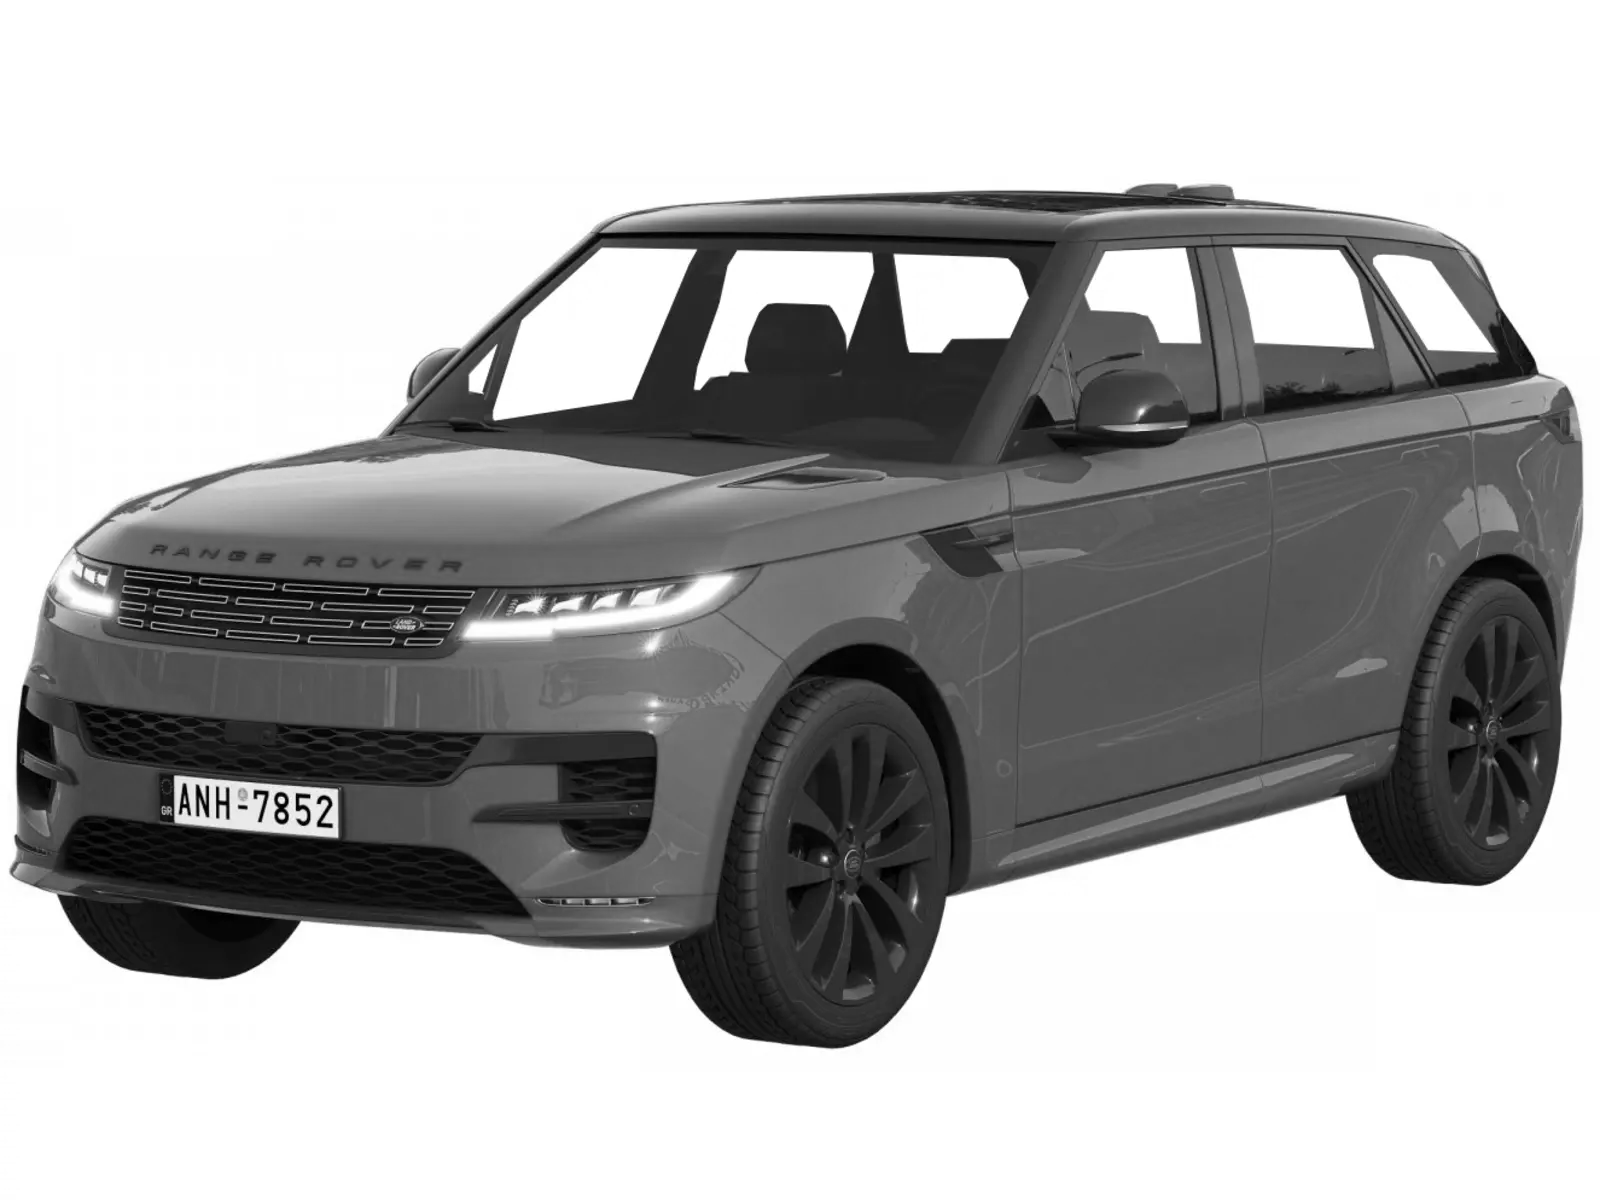
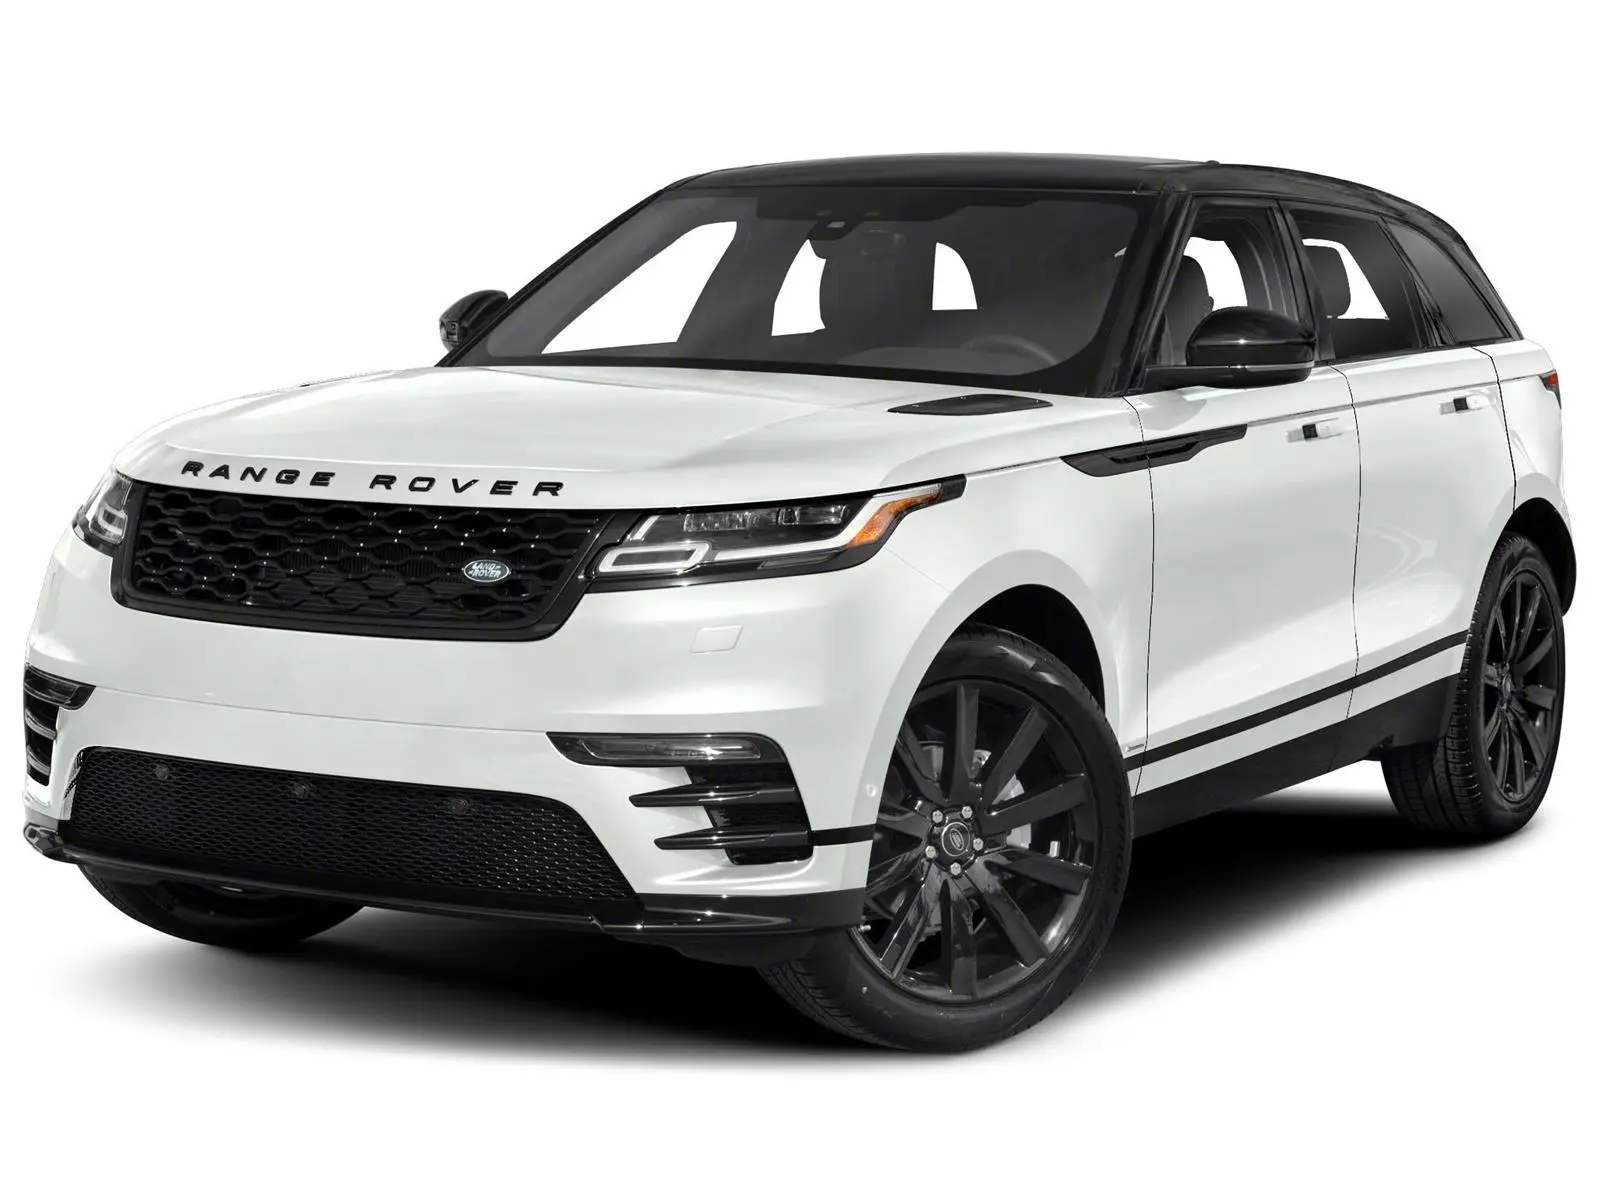
Vehicles setup
setup swiper for vehicles

diff --git a/src/pages/Vehicles.jsx b/src/pages/Vehicles.jsx
@@ -1,49 +1,66 @@
-import { useEffect, useRef } from 'react';
-import { useDispatch, useSelector } from 'react-redux';
-import { Link } from 'react-router-dom';
-import { fetchCars } from '../features/cars/carSlice';
-import { BsCaretLeft, BsCaretRight } from 'react-icons/bs';
+import { useEffect } from "react";
+import { useDispatch, useSelector } from "react-redux";
+import { Link } from "react-router-dom";
+import { fetchCars } from "../features/cars/carSlice";
+import { Swiper, SwiperSlide } from "swiper/react";
+import { Navigation } from "swiper";
+import "swiper/css";
+import "swiper/css/navigation";
+import "swiper/css/pagination";
 
 function Vehicles() {
-    const dispatch = useDispatch();
-    const cars = useSelector((state) => state.car);
-    const carContainerRef = useRef(null);
+  const dispatch = useDispatch();
+  const cars = useSelector((state) => state.car);
 
-    const handleScroll = (scrollOffset) => {
-        if (carContainerRef.current) {
-            carContainerRef.current.scrollLeft += scrollOffset;
-        }
-    };
+  useEffect(() => {
+    dispatch(fetchCars());
+  }, [dispatch]);
 
-    useEffect(() => {
-        dispatch(fetchCars());
-    }, [dispatch]);
-
-    return (
-        <div className="container">
-            <h1>List Of Vehicles</h1>
-            <div className='big-div'>
-                <button className='scroll-button' onClick={() => handleScroll(-200)}>
-                    <BsCaretLeft className="fs-5" />
-                </button>
-                <div className='car-container' ref={carContainerRef}>
-                    {cars.data.length === 0 && <p>No cars found.</p>}
-                    {cars.data.map((car) => (
-                        <Link to={`/car_details/${car.id}`} key={car.id}>
-                            <div className='car-div'>
-                                <img src={car.front_image} className='car-img' alt={car.name} />
-                                <h4>{car.name}</h4>
-                                <p>{car.description}</p>
-                            </div>
-                        </Link>
-                    ))}
-                </div>
-                <button className='scroll-button' onClick={() => handleScroll(200)}>
-                    <BsCaretRight className="fs-5" />
-                </button>
-            </div>
+  return (
+    <>
+      <div className="vehiclesCont">
+        <div className="vehiclesTitle">
+          <h1>LATEST MODELS</h1>
+          <p>Please select a Land Rover model.</p>
         </div>
-    );
+
+        if (cars.data.length == 0) {
+
+        } else {
+
+        <Swiper
+          breakpoints={{
+            0: {
+              slidesPerView: 1,
+            },
+            768: {
+              slidesPerView: 3,
+            },
+          }}
+          cssMode={true}
+          navigation={true}
+          mousewheel={true}
+          keyboard={true}
+          direction="horizontal"
+          modules={[Navigation]}
+          className="vehiclesSwiper"
+        >
+          <SwiperSlide>Slide 1</SwiperSlide>
+          <SwiperSlide>Slide 2</SwiperSlide>
+          <SwiperSlide>Slide 3</SwiperSlide>
+          <SwiperSlide>Slide 4</SwiperSlide>
+          <SwiperSlide>Slide 5</SwiperSlide>
+          <SwiperSlide>Slide 6</SwiperSlide>
+          <SwiperSlide>Slide 7</SwiperSlide>
+          <SwiperSlide>Slide 8</SwiperSlide>
+          <SwiperSlide>Slide 9</SwiperSlide>
+        </Swiper>
+};
+      </div>
+    </>
+  );
+
+
 }
 
 export default Vehicles;

diff --git a/src/assets/style/Vehicles.css b/src/assets/style/Vehicles.css
@@ -1,37 +1,16 @@
-.container-2 {
+.vehiclesCont {
+  width: 100%;
+  height: 100%;
+  overflow: scroll;
   display: flex;
-  justify-content: space-around;
+  flex-direction: column;
+  padding: 2rem 0;
+  align-items: center; 
+  justify-content: center;
 }
 
-.car-img {
-  width: 12rem;
-  height: 12rem;
-  border-radius: 50%;
-}
-
-.main-img {
-  width: 30vw;
-  height: 65vh;
-  border-radius: 50px;
-}
-
-.car-div {
-  margin: 0 1rem 0 2rem;
-  border: #f3f3f3 1pc solid;
-}
-
-.big-div {
-  display: flex;
-}
-
-.scroll-button {
-  background-color: #98ff22;
-  width: 4rem;
-  height: 3rem;
-}
-
-.scroll-button:disabled {
-  opacity: 0.5;
-  cursor: not-allowed;
-  background-color: #f3f3f3;
+.vehiclesSwiper {
+  background-color: rgb(201, 201, 201);
+  width: 100vw;
+  height: 35rem;
 }

diff --git a/src/pages/Home.jsx b/src/pages/Home.jsx
@@ -74,7 +74,7 @@ const Home = () => {
           <div className="homeCont home4">
             <div className="homeCta">
               <h2 className="homeTitle">LAND ROVER</h2>
-              <h3 className="homeSub">RANGE ROVER SPORT</h3>
+              <h3 className="homeSub">RANGE ROVER VELAR</h3>
               <button
                 className="actionBtn"
                 onClick={() => navigate("/vehicles")}

diff --git a/src/index.css b/src/index.css
@@ -20,6 +20,7 @@ body {
 }
 
 #root {
+  display: flex;
   justify-content: center;
   align-items: center;
   height: 100%;
